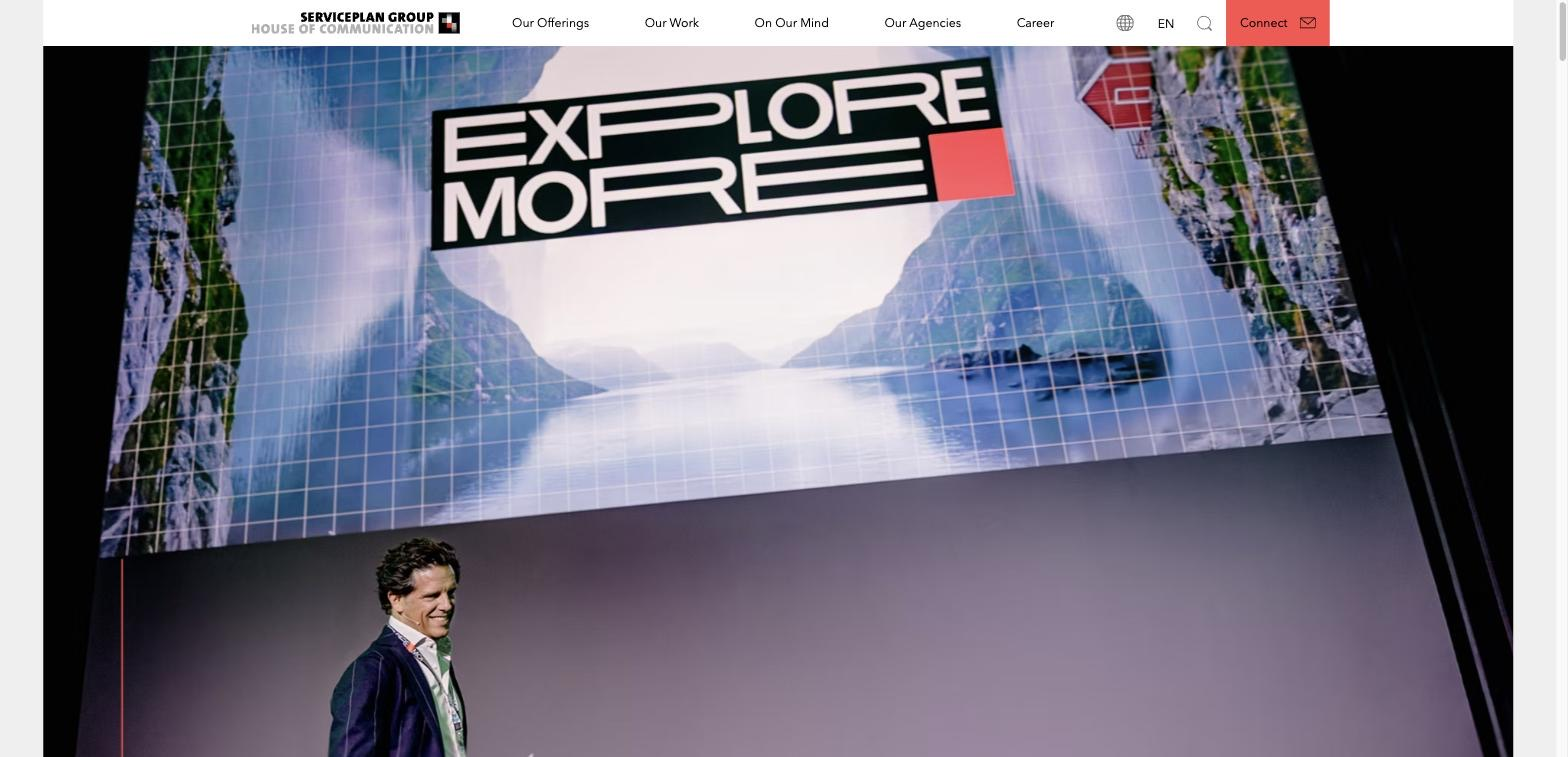
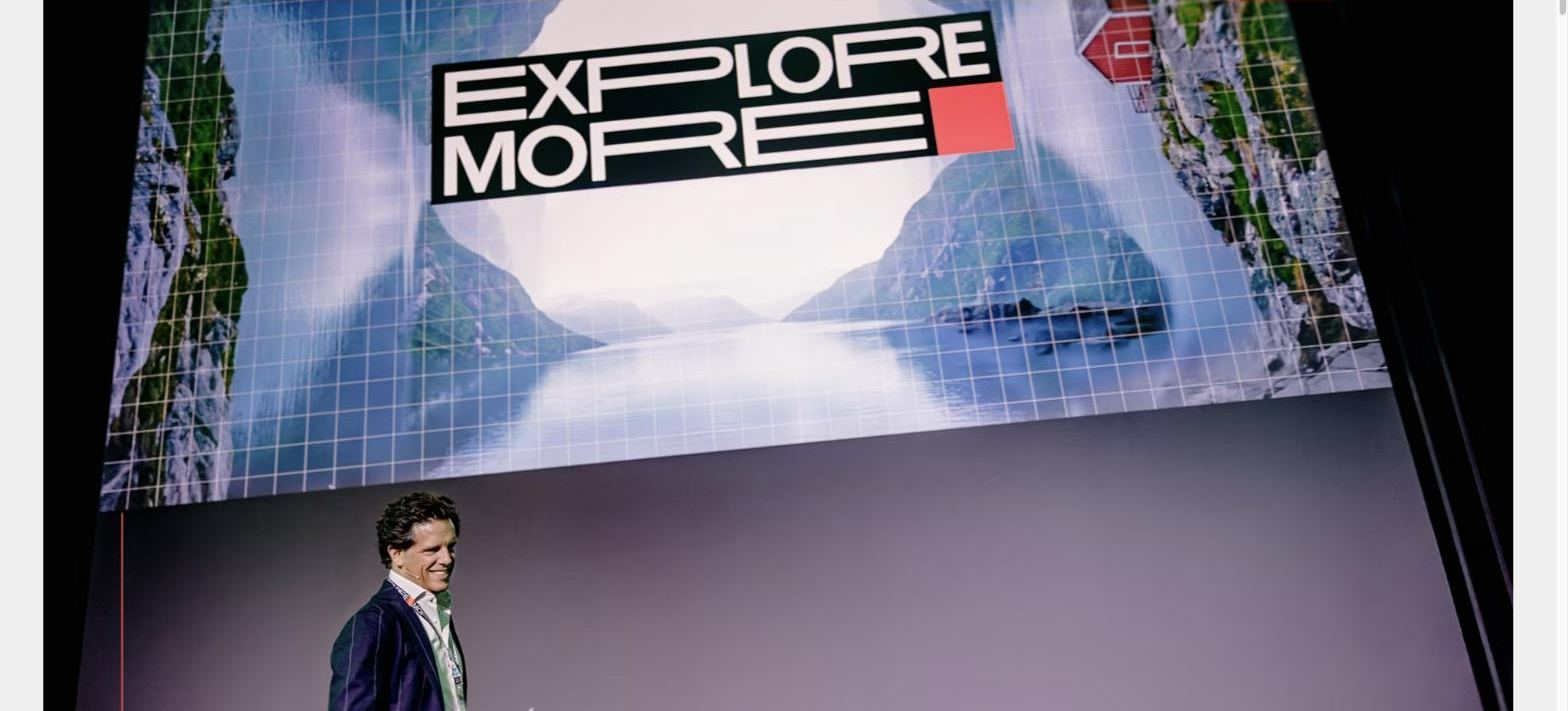
sokosumi: crop source captures to page content
Claude-Session: https://claude.ai/code/session_01HdxhSrrd2kNQfNVfMV6UXs

diff --git a/apps/sokosumi/templates/serviceplanAi.js b/apps/sokosumi/templates/serviceplanAi.js
@@ -229,7 +229,7 @@ function groupedChapters(list) {
               <div>
                 <h3 id="sp-group-${attr(group.id)}"><span class="sp-group-index">${String(groupIndex + 1).padStart(2, "0")}</span>${esc(localText(group.label))}</h3>
                 <p>${esc(localText(group.description))}</p>
-                ${group.img ? `<img class="sp-group-img" src="${attr(group.img)}" alt="" width="1543" height="736" loading="lazy" decoding="async">` : ""}
+                ${group.img ? `<img class="sp-group-img" src="${attr(group.img)}" alt="" width="1568" height="711" loading="lazy" decoding="async">` : ""}
               </div>
             </header>
             <div class="sp-chapter-list">
@@ -338,7 +338,7 @@ function sourceFigure(source, opts = {}) {
     domain = new URL(source.href).hostname.replace(/^www\./, "");
   } catch {}
   return `<figure class="sp-source${opts.hero ? " sp-source-hero" : ""}">
-    <a href="${attr(source.href || "#")}" rel="noopener noreferrer nofollow"><img src="${attr(source.img)}" alt="${attr(localText(source.caption))}" width="1543" height="736" loading="${opts.hero ? "eager" : "lazy"}" decoding="async"${opts.hero ? ' fetchpriority="high"' : ""}></a>
+    <a href="${attr(source.href || "#")}" rel="noopener noreferrer nofollow"><img src="${attr(source.img)}" alt="${attr(localText(source.caption))}" width="1568" height="711" loading="${opts.hero ? "eager" : "lazy"}" decoding="async"${opts.hero ? ' fetchpriority="high"' : ""}></a>
     <figcaption><span>${esc(localText(source.caption))}</span>${domain ? `<a href="${attr(source.href)}" rel="noopener noreferrer nofollow">${esc(domain)} ${icon("arrow-up-right", 12)}</a>` : ""}</figcaption>
   </figure>`;
 }

diff --git a/apps/sokosumi/assets/serviceplan-ai.css b/apps/sokosumi/assets/serviceplan-ai.css
@@ -2077,7 +2077,7 @@ a.sp-pn:hover strong {
 }
 
 .sp-source img {
-  aspect-ratio: 1543 / 736;
+  aspect-ratio: 1568 / 711;
   background: var(--sp-soft);
   border: 1px solid var(--sp-rule);
   border-radius: var(--r-xl, 14px);
@@ -2261,7 +2261,7 @@ a.sp-pn:hover strong {
 }
 
 .sp-group-img {
-  aspect-ratio: 1543 / 736;
+  aspect-ratio: 1568 / 711;
   border: 1px solid var(--sp-rule);
   border-radius: var(--r-lg);
   margin-top: var(--space-lg);
